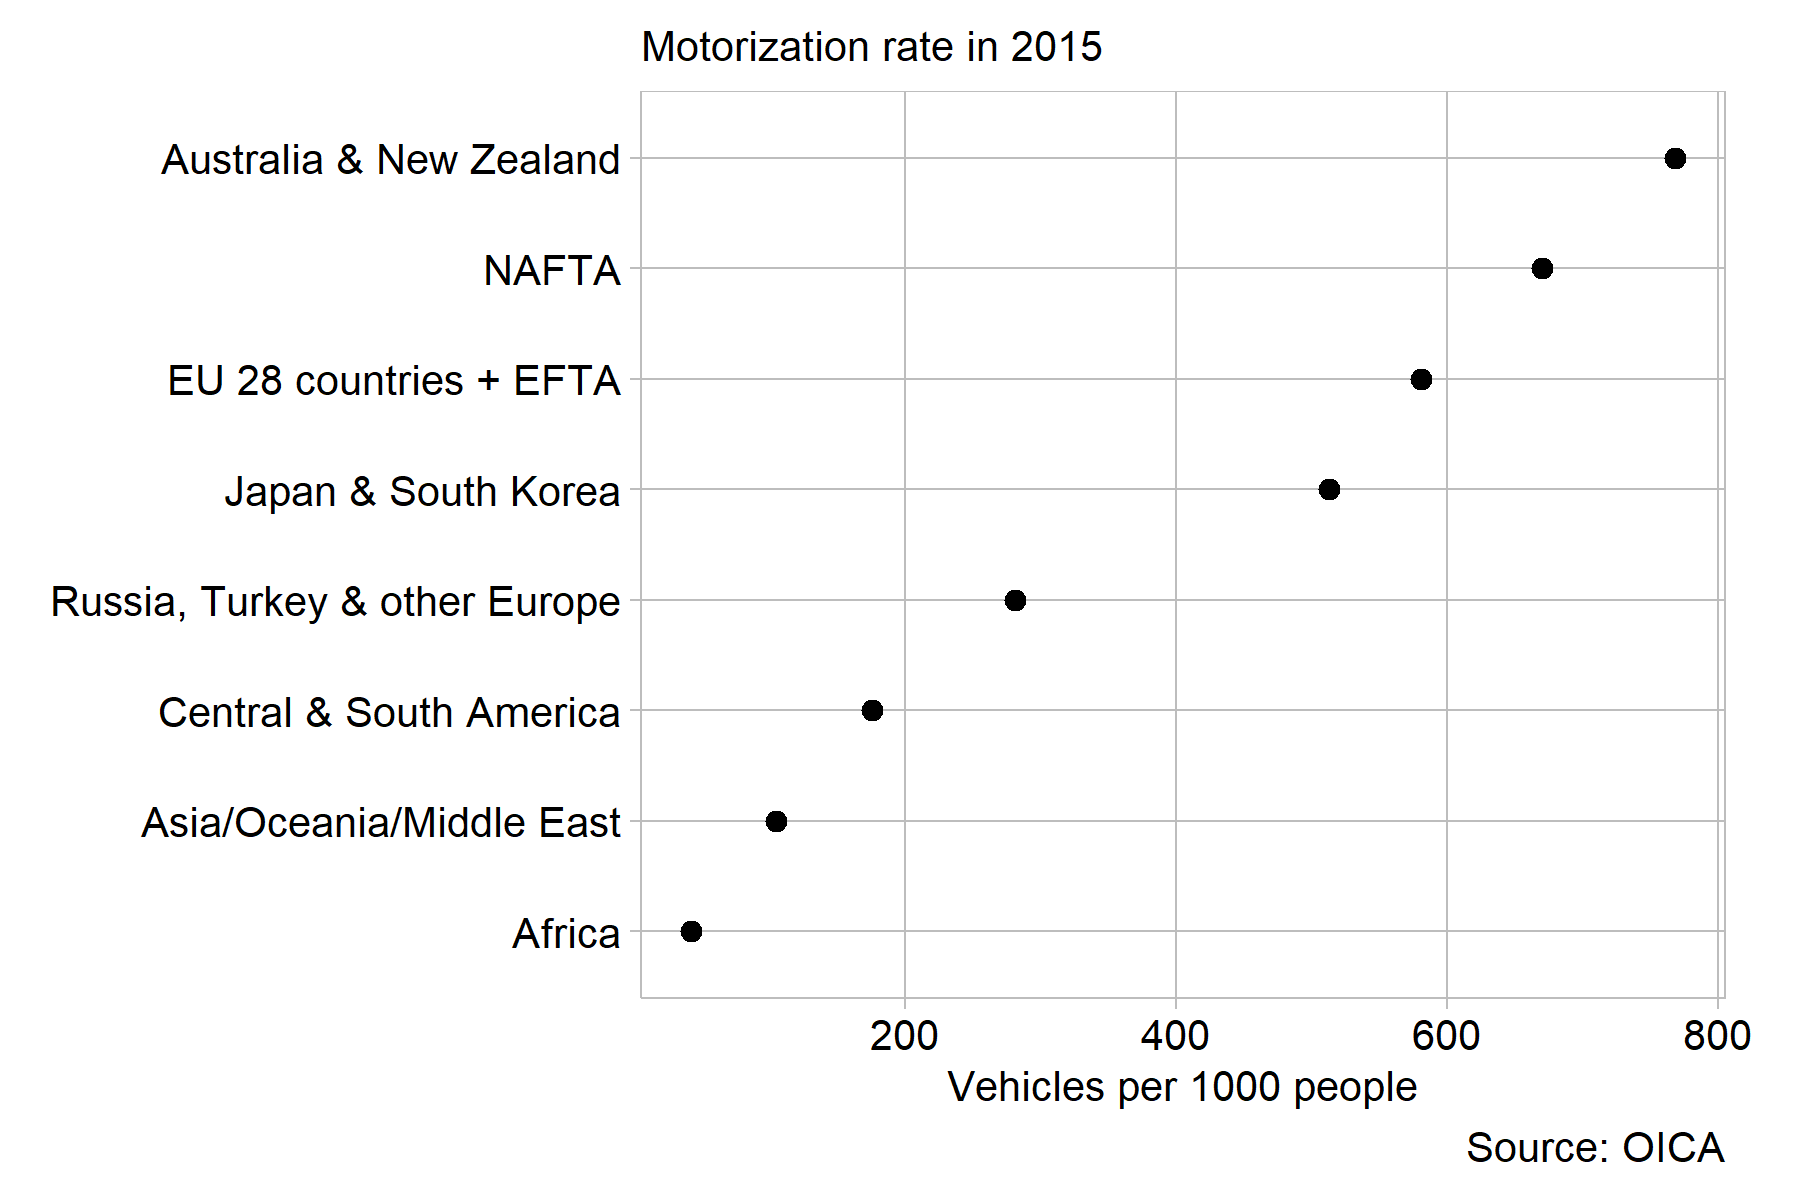
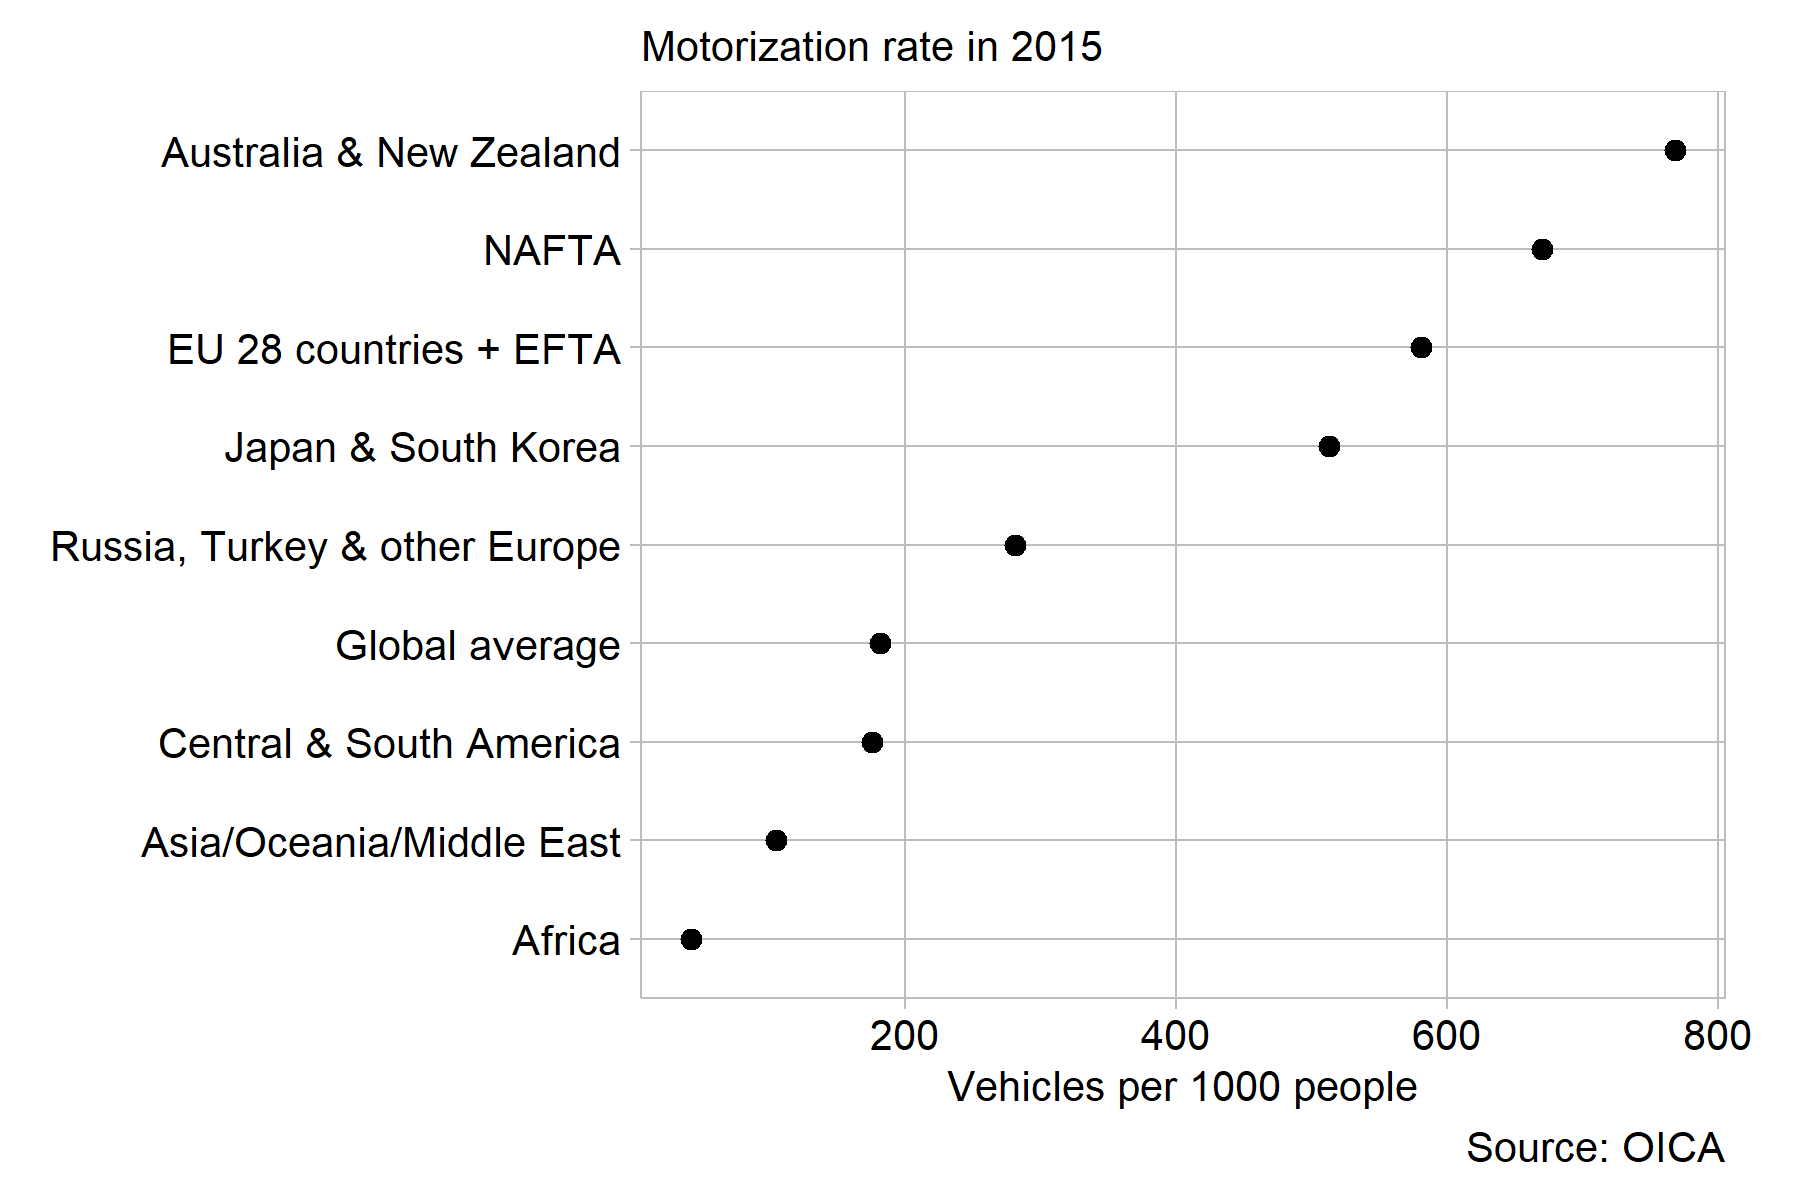
finished D5. FINALLY!

diff --git a/reports/D5-report.md b/reports/D5-report.md
@@ -1,33 +1,123 @@
-revise graphical lie
+Global motorization rate
 ================
 
-What kind of lie is it? (See graphical lies slides for types) Look to
-put the data in context: add more years? surrounding areas?
+The International Organization of Motor Vehicle Manufactures provides
+[data on the motorization
+rate](http://www.oica.net/wp-content/uploads//Total_in-use-All-Vehicles.xlsx)
+of countries across the world. This represents the concentration of
+passenger and commercial vehicles per capita. This rate is closely
+correlated with income and urbanization at a national level, and
+negatively correlated with population density at a local scale
+(Engineering, [2003](#ref-NAP:2003)).
 
-The map projection of original is true, uses the Molleweide projection
-which more accurately portrays land area (need a citation). Many graphs
-use the Mercatur projection, which distorts the globe in such a way that
-North American and European countries seem larger.
+OICA published this [map](http://www.oica.net/category/vehicles-in-use/)
+meant to summarize their data and present the story at a glance. It
+falls short in several important ways and presents so much data that it
+confuses more than it clarifies.
 
-They avoided value laden colors - their scheme has absolutely no
-meaning. Color could be used to make certain countries or continents
-more prominent or impart emotional or political biases.
+<img src="../resources/OICA-Motorization-rate-2015.jpg" width="60%" />
 
-The countries are grouped, roughly by continent. I can only deduce this
-was necessary because the map does not have enough space to write each
-countrie’s data. Grouping by global region means a single mean can be
-displayed, which is representative of that region’s data. Since I am
-representing each countries motorization rate on a color scale and not
-in a written number, the groupings are not necessary for the data to be
-legible.
+The original graphic lies by emphasizing the trivial. Their graphic’s
+title is “Motorization rate 2015,” but the information readers see first
+“Versus 2005”, because the giant red bubbles grab attention. The red
+ovals, plotted overtop the map and larger than almost every country,
+distract from the data they contain, making them chartjunk (Tufte,
+[1997](#ref-Tufte:1997)). Overall, the message is hidden in an extremely
+visually busy graphic. One point the original authors succeeded on is
+avoiding value laden colors - their scheme has absolutely no hidden
+meaning. Color can be used to make certain countries or continents more
+prominent or impart emotional or political biases, but this graphic
+avoids all of those pitfalls.
+
+The highlighted, underlined, and italicized headings call out
+continental groupings. Only eight numbers (7 groupings and a global
+average) would fit in a small table, making the map itself unncesessary,
+and potentially chartjunk.
+
+Another source of potential misinformation is not acknowledging missing
+data. There are over 20 countries not included in the data set with no
+explanation for why.
+
+To correct the (unintentional) graphical lies in the original
+publication, I implemented a two stage approach. Each stage strips away
+superfluous data in the pursuit of conveying the information clearly and
+concisely. Although all charts (including the original) contain the same
+data, they do not all convey the same information. The chloropleth map
+and dot plot are displayed together because “showing data more than one
+way increases our understanding” (Robbins, [2005](#ref-Robbins:2005)).
+
+## Stage 1: clearly compare regions
+
+The original chart emphaizes continent headings, however, the OICA
+dataset contains country level rates which make it possible to get a
+much more granular view of the data. Motorization rate is expressed as a
+color gradient where color intensity increases with vehicle
+concentration.
 
 <img src="../figures/D5-map.png" width="100%" />
 
-<img src="../figures/D5-dot-plot.png" width="60%" />
+The map enables visualizing country level data with no names or labels;
+instead this is represented pictorally and counts on the viewer to
+interpret the known shape of nations. However, there are still several
+rhetorical issues with this chloropleth map. A map inherently emphasizes
+geographical data, but that is not point of interest. The data
+corresponds to the geographical location of wealth, which readers likely
+already know. People also instinctively perceive the area of countries,
+which is not a part of the story or data in any way. The Molleweide map
+projection is used in an attempt to mitigate this, which distorts
+latitude and longitude lines to to accurately represent areas across the
+globe.
 
-## Graph design
+The purpose of plotting each countries data on the same map is to
+compare them. This makes the relative motorization rate exceedingly
+clear between developed countries (the “West”) and developing nations.
 
-Data requirements
+Importantly, countries with missing data are included, shown in gray.
+The countries that are missing are generally developing nations with
+rates likely in line with their geographic neighbors. There is no
+evidence to believe the missing data grossly distorts or misrepresents
+the story, but it must be included for an ethical display.
+
+Still, this map is not the perfect medium for this story. Nations with
+small areas are very hard to see on the map - even if the viewer knows
+that Puerto Rico has the highest rate, it is still difficult to see the
+color evidence.
+
+## Stage 2: focus on direct comparison
+
+The goal of this display is to compare motorization rate across nations.
+The simplest possible chart that achieves this is seen below. Stage two
+of correcting graphical lies strips away all unncessary information,
+leaving only the place and rate. Conparing a single quantitative
+variable across a categorical variable is best done with a dot chart
+(Doumont, [2009](#ref-Doumont:2009)).
+
+<img src="../figures/D5-dot-plot.png" width="70%" />
+
+A story that is also impossible to see in the chloropleth map is the
+large jump between the four highest regions and the rest. Australia,
+North America, Europe, Japan and South Korea all have strong vehicle
+manufacturing industries. Understandably, the countries where many
+vehicles are made consume vehicles above the global average rate. This
+plot has been banked to 45 degrees so the viewer can more easily see the
+slight break (Robbins, [2005](#ref-Robbins:2005)).
+
+Even this chart (made to correct lies) includes another lie: showing
+averages when the distribution is skewed (Cairo,
+[2018](#ref-Cairo:2018)). Puerto Rico and USA have the two highest
+motorization rates, but their region (NAFTA) has a smaller average,
+hiding this. The OICA realized this fact, because they wrote a selection
+of countries data individually. Unfortunately, a dot plot of all 141
+countries is unreadable. Space constraints force the use of the smaller
+and more managable continential summary view.
+
+Put together, the global map and dot plot show a more detailed story,
+depicting the wide spread between nations as well as the fine
+distinctions between continents.
+
+## Data requirements
+
+D5 - correcting a graphical lie
 
   - Minimum 20 observations
   - One quantitative variable conveying information about human injury
@@ -35,25 +125,45 @@ Data requirements
   - One or two categorical variables, one of which can be time (time
     series)
 
-Normalizing the fatalities would be more appropriate in this case
-because it would account for the changing number of participants.
-However, after searching, I could not find data for the number of
-participants across all racing types and series to match the fatalities
-context.
-
-Why is this graph type appropriate? design decisions, especially lie
-content and how I fixed it
-
-“showing data more than one way increases our understanding” (Robbins,
-[2005](#ref-Robbins:2005)).
-
 ## References
 
 <div id="refs" class="references">
 
+<div id="ref-Cairo:2018">
+
+Cairo A (2018) How charts lie.
+<https://www.youtube.com/watch?v=Cd046xZhO_8&t=41m22s>
+
+</div>
+
+<div id="ref-Doumont:2009">
+
+Doumont J-L (2009) Designing the graph. *Trees, maps, and theorems:
+Effective communication for rational minds*. Principiae, Kraainem,
+Belgium, 133–143 <http://www.treesmapsandtheorems.com/>
+
+</div>
+
+<div id="ref-NAP:2003">
+
+Engineering CA of (2003) Motorization from a Global Perspective.
+*Personal Cars and China*. The National Academies Press, 14–22
+<https://www.nap.edu/read/10491/chapter/4>
+
+</div>
+
 <div id="ref-Robbins:2005">
 
 Robbins N (2005) Scales. *Creating More Effective Graphs*. 226–291
+
+</div>
+
+<div id="ref-Tufte:1997">
+
+Tufte E (1997) The decision to launch the space shuttle Challenger.
+*Visual and statistical thinking: Displays of evidence for making
+decisions*. Graphics Press, Cheshire, CT, 16–32
+<https://www.edwardtufte.com/tufte/books_textb>
 
 </div>
 

diff --git a/README.md b/README.md
@@ -31,6 +31,10 @@ variables
 accelerating An ethical display of fatalities in racing, and the
 equipment that prevents them.
 
+[Display 5](reports/D5-report.md) Global motorization rate
+
+[Display 6](reports/D6-report.md) Not yet
+
 ## Discussion notes
 
 [Reading responses](reports/reading-responses.md) Notes from the data
